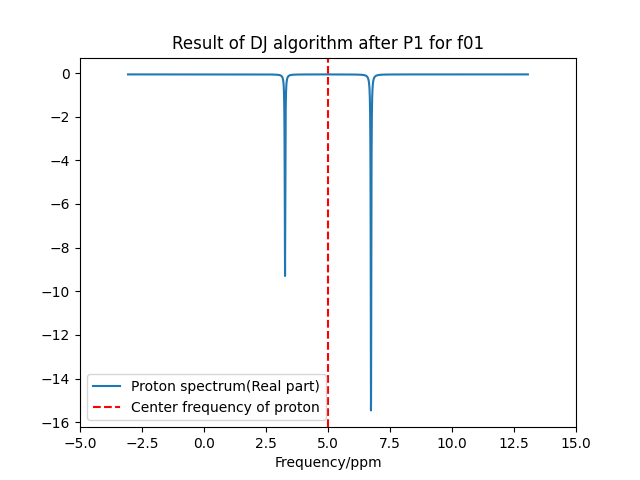
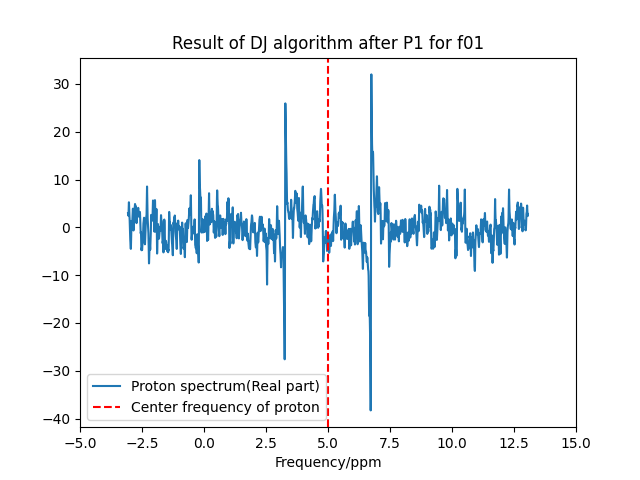
Approximate CNOT

diff --git a/example.py b/example.py
@@ -823,14 +823,14 @@ if __name__ == "__main__":
     # pseudo_pure_state([1,0], add_CNOT=False, add_approx_CNOT=True)
     # pseudo_pure_state([1,1], add_CNOT=False, add_approx_CNOT=True)
 
-    #permute_DJ([0, 0])
-    #permute_DJ([0, 1])
-    #permute_DJ([1, 0])
+    permute_DJ([0, 0])
+    permute_DJ([0, 1])
+    permute_DJ([1, 0])
     permute_DJ([1, 1])
-    #permute_grover([0, 0])
-    #permute_grover([0, 1])
-    #permute_grover([1, 0])
-    #permute_grover([1, 1])
+    permute_grover([0, 0])
+    permute_grover([0, 1])
+    permute_grover([1, 0])
+    permute_grover([1, 1])
     # strings = Grover_print_pulse([1, 0, 0, 0])
 
     # print("SSS")

diff --git a/Simulator/algorithm.py b/Simulator/algorithm.py
@@ -67,7 +67,7 @@ class NMRalgorithm:
 
     def add_CNOT_pulse(self):
         self.NMRsample.add_pulse(BarrierPulse(name="CNOT(H,C)"))
-        self.NMRsample.add_CNOT_pulse(approximate=False, Hcontrol=True)
+        self.NMRsample.add_CNOT_pulse(approximate=True, Hcontrol=True)
         self.NMRsample.add_pulse(BarrierPulse(name="CNOT(H,C)", endpulse=True))
 
     def plot_measure_all(self):

diff --git a/Simulator/NMRdensity.py b/Simulator/NMRdensity.py
@@ -364,7 +364,7 @@ class chloroform:
         else:
             pass
 
-    def add_CNOT_pulse(self, approximate=False, Hcontrol=True):
+    def add_CNOT_pulse(self, approximate=True, Hcontrol=True):
         if not approximate:
             if Hcontrol:
                 '''
